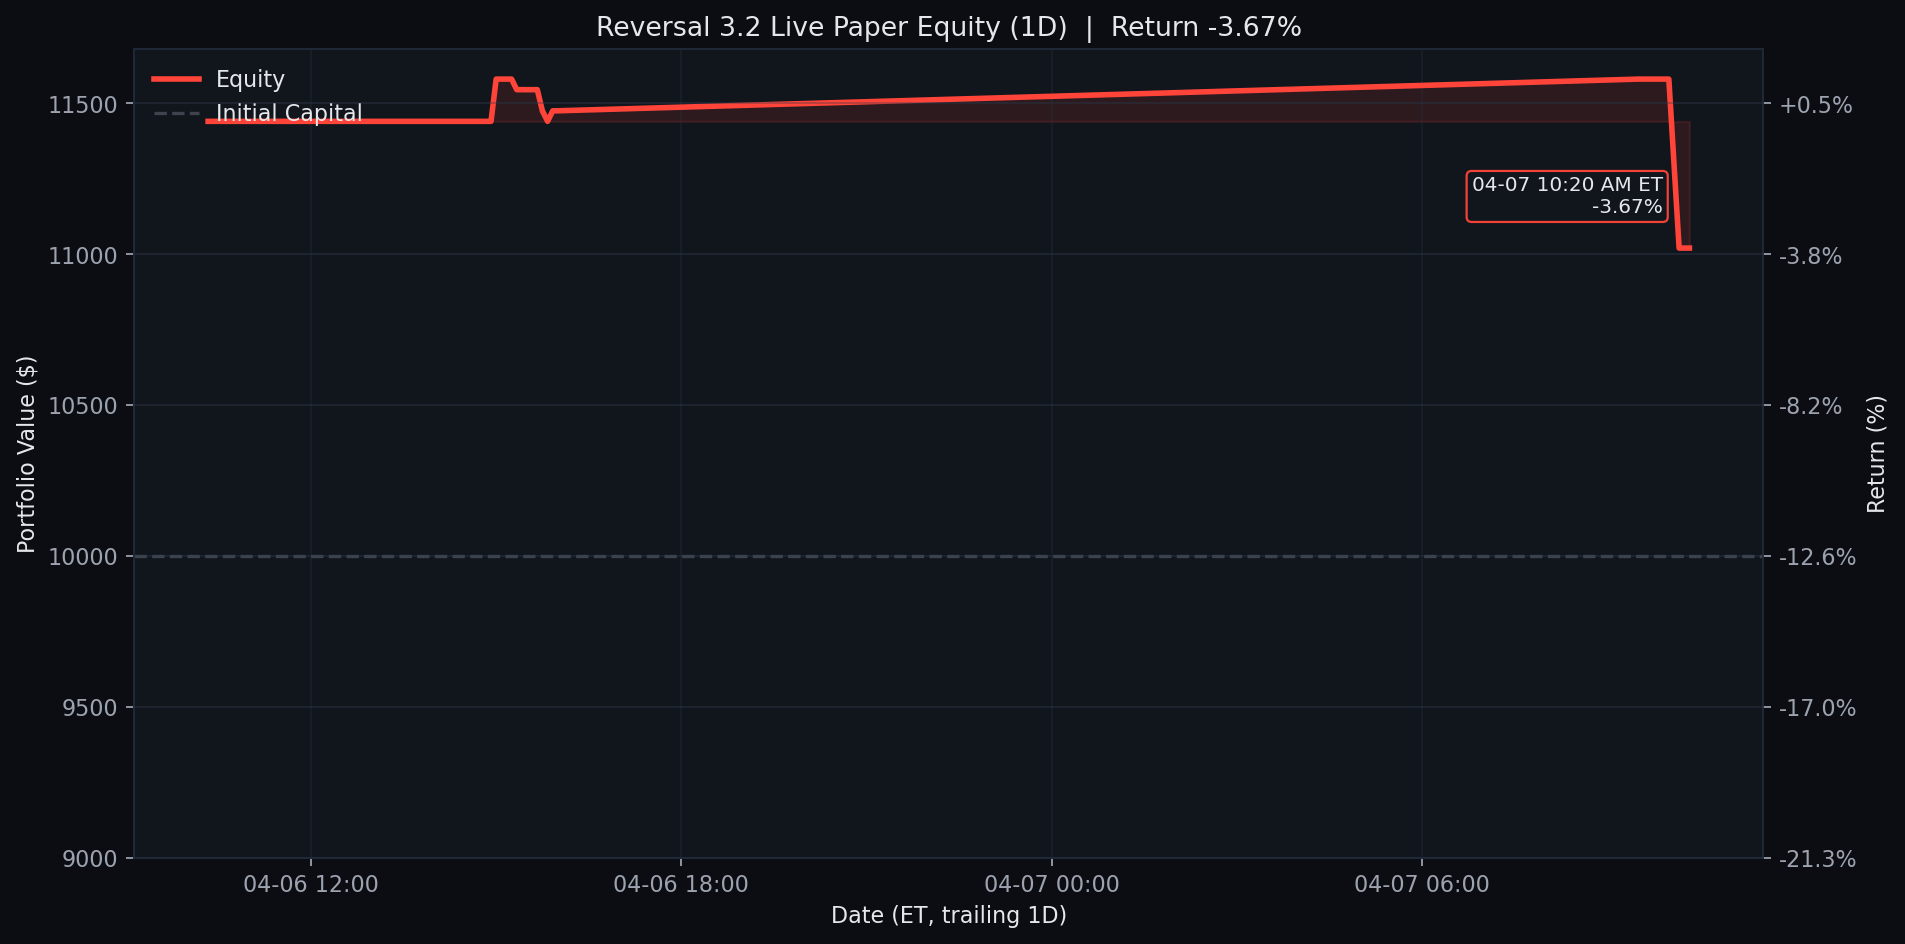
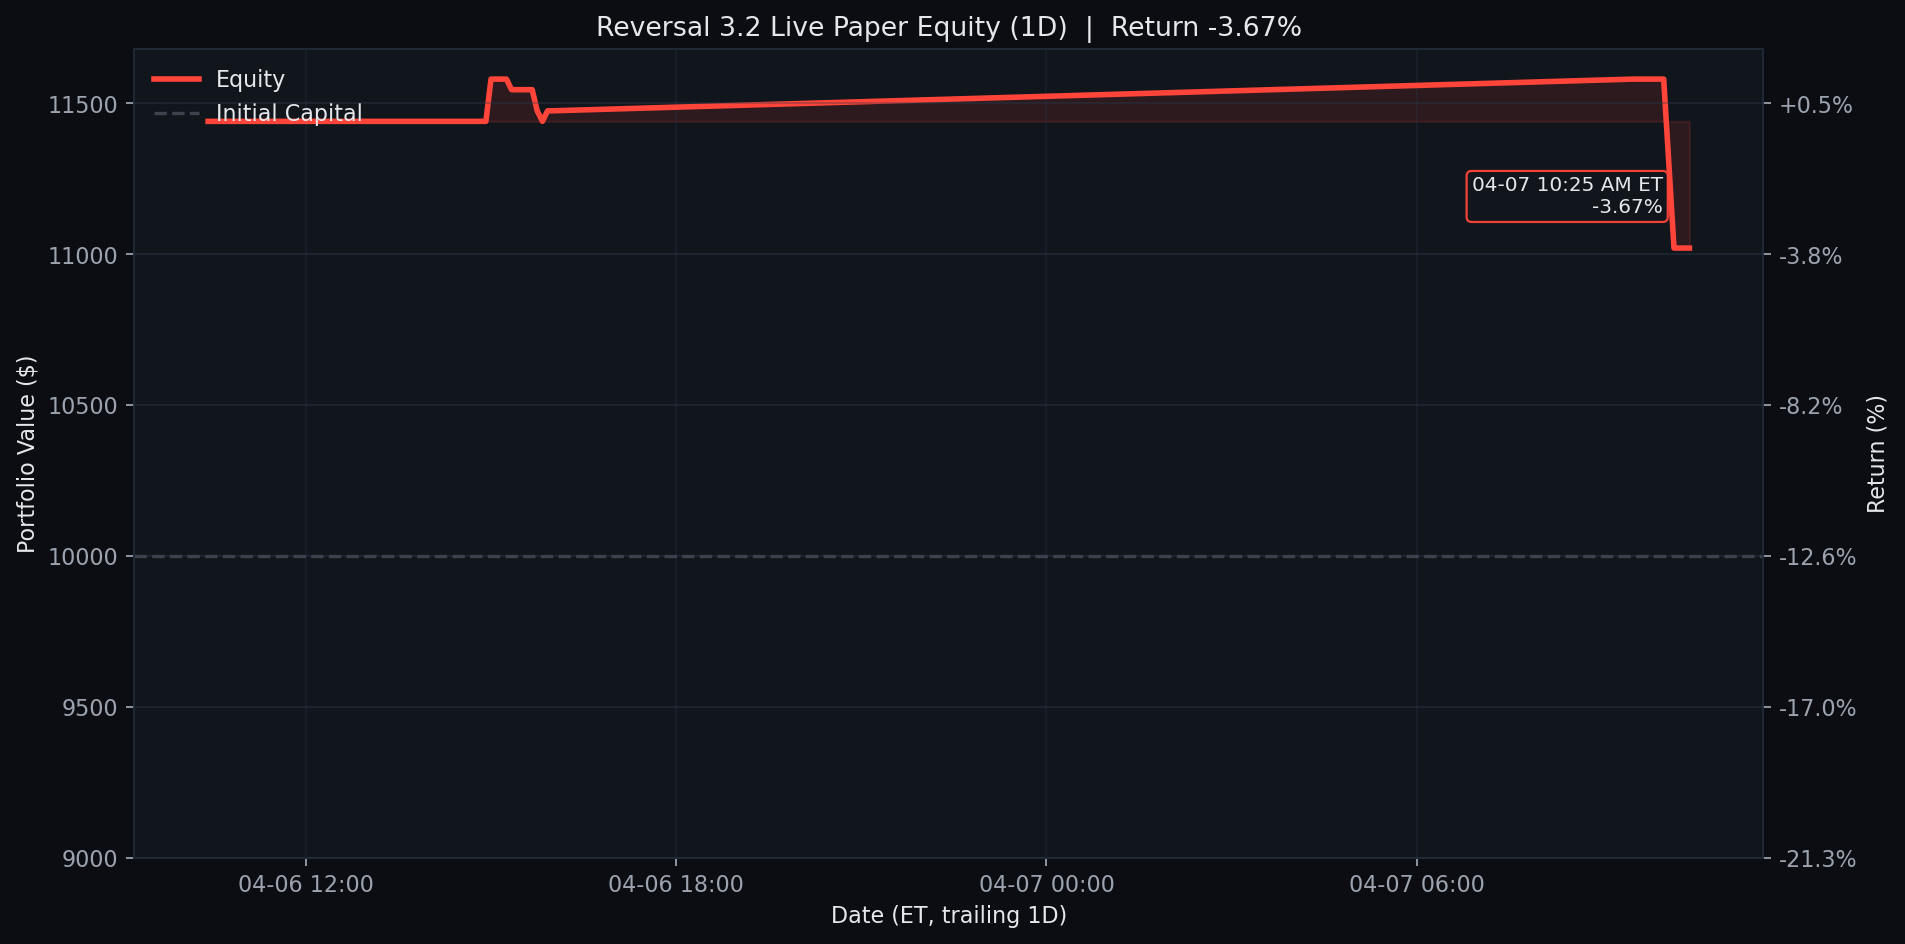
Update Reversal 3.2 live paper test 2026-04-07 10:25 ET

diff --git a/results/reversal_3_2_live/README.md b/results/reversal_3_2_live/README.md
@@ -1,6 +1,6 @@
 # Reversal 3.2 Live Paper Test
 
-Last updated (ET): `2026-04-07 10:20:05 EDT`
+Last updated (ET): `2026-04-07 10:25:05 EDT`
 Last processed slot: `manage_1030`
 
 ## Active Configuration
@@ -29,7 +29,7 @@ Last processed slot: `manage_1030`
 
 ```text
 ticker    contract_symbol entry_trade_date  business_days_held  contracts  cash_spent  current_position_value  entry_option_price  current_option_price  entry_spot  current_spot  unrealized_pnl  unrealized_return_pct  success_rate  matched_signals  current_drop_pct  entry_iv_pct  current_iv_pct  rolling_sigma_20d_pct
-   HON HON260515C00230000       2026-04-06                   1          7      5180.0                  4760.0                 7.4                   6.8      227.61        225.78          -420.0                  -8.11         100.0               20               0.8         28.89           32.19                  20.57
+   HON HON260515C00230000       2026-04-06                   1          7      5180.0                  4760.0                 7.4                   6.8      227.61        225.51          -420.0                  -8.11         100.0               20               0.8         28.89           32.61                  20.57
 ```
 
 ## Today's Closed Trades (2026-04-07)
@@ -40,24 +40,25 @@ _None_
 
 ```text
 ticker  success_rate_%  matched_signals  current_drop_%  target_rebound_$  target_price  rolling_sigma_20d_%  call_candidate
-   HON          100.00               14            1.23              1.97        227.37                20.19            True
-   WDC           97.56               41            0.50              1.07        303.69                83.06            True
-  MRVL           96.00               25            2.38              1.82        108.73                70.84            True
-  REGN           95.24               21            1.53              8.18        759.53                25.24            True
-  COST           92.59               27            0.78              5.60       1016.15                13.04            True
-  FAST           92.11               38            0.55              0.18         45.79                20.98            True
-  UPRO           92.00               25            2.10              1.48        100.11                53.86            True
-  NVDA           92.00               25            1.36              1.69        176.91                33.70            True
-  GILD           91.67               12            1.40              1.37        139.54                20.18            True
-  MPWR           91.18               34            1.10              9.11       1176.13                51.99            True
-  ABNB           89.29               28            1.46              1.30        126.25                36.80            True
-  CDNS           89.13               46            0.51              1.00        278.96                25.26            True
+   HON          100.00               14            1.20              1.91        227.39                20.19            True
+   WDC           97.44               39            0.65              1.38        303.56                83.06            True
+  MRVL           96.00               25            2.24              1.72        108.77                70.84            True
+  REGN           95.65               23            1.44              7.71        759.74                25.24            True
+  COST           92.59               27            0.76              5.41       1016.23                13.04            True
+  FAST           92.11               38            0.53              0.17         45.80                20.98            True
+  UPRO           92.00               25            2.15              1.52        100.09                53.86            True
+  NVDA           92.00               25            1.35              1.68        176.92                33.70            True
+  MPWR           91.67               36            0.78              6.45       1177.27                51.99            True
+  ABNB           90.91               33            1.23              1.09        126.34                36.80            True
+   MAR           89.29               28            0.97              2.30        337.01                25.97            True
+  DDOG           88.89               27            2.40              1.96        115.66                49.06            True
 ```
 
 ## Recent Events
 
 ```text
                     timestamp_et         slot   event_type                          detail
+2026-04-07T10:25:05.889349-04:00  manage_1030 slot_skipped {"reason": "already_processed"}
 2026-04-07T10:10:05.890428-04:00  manage_1000 slot_skipped {"reason": "already_processed"}
 2026-04-07T10:05:05.888815-04:00  manage_1000 slot_skipped {"reason": "already_processed"}
 2026-04-07T10:00:05.892155-04:00  manage_1000 slot_skipped {"reason": "already_processed"}
@@ -67,7 +68,6 @@ ticker  success_rate_%  matched_signals  current_drop_%  target_rebound_$  targe
 2026-04-07T09:30:05.896974-04:00 data_refresh data_refresh                   {'saved': 99}
 2026-04-06T16:00:05.887844-04:00  manage_1600 slot_skipped {"reason": "already_processed"}
 2026-04-06T15:55:05.885666-04:00  manage_1600 slot_skipped {"reason": "already_processed"}
-2026-04-06T15:40:05.890163-04:00  manage_1530 slot_skipped {"reason": "already_processed"}
 ```
 
 ## Equity Curves
@@ -77,20 +77,20 @@ Each chart is generated from the same live equity series with no-lookahead marks
 <details>
 <summary><strong>1D</strong></summary>
 
-![Reversal 3.2 Live Equity 1D](../../assets/reversal_3_2_live_equity_1d.png?v=20260407102005)
+![Reversal 3.2 Live Equity 1D](../../assets/reversal_3_2_live_equity_1d.png?v=20260407102505)
 
 </details>
 
 <details open>
 <summary><strong>1W</strong></summary>
 
-![Reversal 3.2 Live Equity 1W](../../assets/reversal_3_2_live_equity.png?v=20260407102005)
+![Reversal 3.2 Live Equity 1W](../../assets/reversal_3_2_live_equity.png?v=20260407102505)
 
 </details>
 
 <details>
 <summary><strong>1M</strong></summary>
 
-![Reversal 3.2 Live Equity 1M](../../assets/reversal_3_2_live_equity_1m.png?v=20260407102005)
+![Reversal 3.2 Live Equity 1M](../../assets/reversal_3_2_live_equity_1m.png?v=20260407102505)
 
 </details>

diff --git a/README.md b/README.md
@@ -3,7 +3,7 @@
 <!-- reversal-3.2-live:start -->
 ## Reversal 3.2 Live Paper Test
 
-- Last updated (ET): `2026-04-07 10:20:05 EDT`
+- Last updated (ET): `2026-04-07 10:25:05 EDT`
 - Equity: `$11,020.00` | Realized: `$1,440.00` | Unrealized: `$-420.00` | Open positions: `1`
 - Today closed trades: `0`
 - Current slot: `manage_1030`
@@ -20,21 +20,21 @@ ticker    contract_symbol  contracts  cash_spent  current_position_value  curren
 <details>
 <summary><strong>1D</strong></summary>
 
-![Reversal 3.2 Live Equity 1D](assets/reversal_3_2_live_equity_1d.png?v=20260407102005)
+![Reversal 3.2 Live Equity 1D](assets/reversal_3_2_live_equity_1d.png?v=20260407102505)
 
 </details>
 
 <details open>
 <summary><strong>1W</strong></summary>
 
-![Reversal 3.2 Live Equity 1W](assets/reversal_3_2_live_equity.png?v=20260407102005)
+![Reversal 3.2 Live Equity 1W](assets/reversal_3_2_live_equity.png?v=20260407102505)
 
 </details>
 
 <details>
 <summary><strong>1M</strong></summary>
 
-![Reversal 3.2 Live Equity 1M](assets/reversal_3_2_live_equity_1m.png?v=20260407102005)
+![Reversal 3.2 Live Equity 1M](assets/reversal_3_2_live_equity_1m.png?v=20260407102505)
 
 </details>
 
